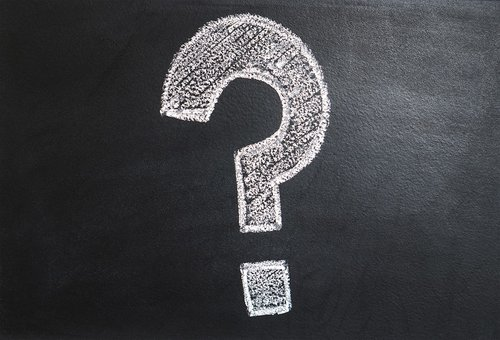
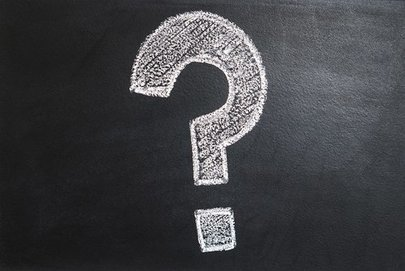
changing the background and adding resized question mark to asp.net

diff --git a/Dataasp/Content/Site.css b/Dataasp/Content/Site.css
@@ -17,6 +17,10 @@ body {
 
 }
 
+my-container img {
+    opacity: 0.6;
+}
+
     /* Required padding for .navbar-fixed-top. Remove if using .navbar-static-top. Change if height of navigation changes. */
 
 .ajax__combobox_itemlist {
